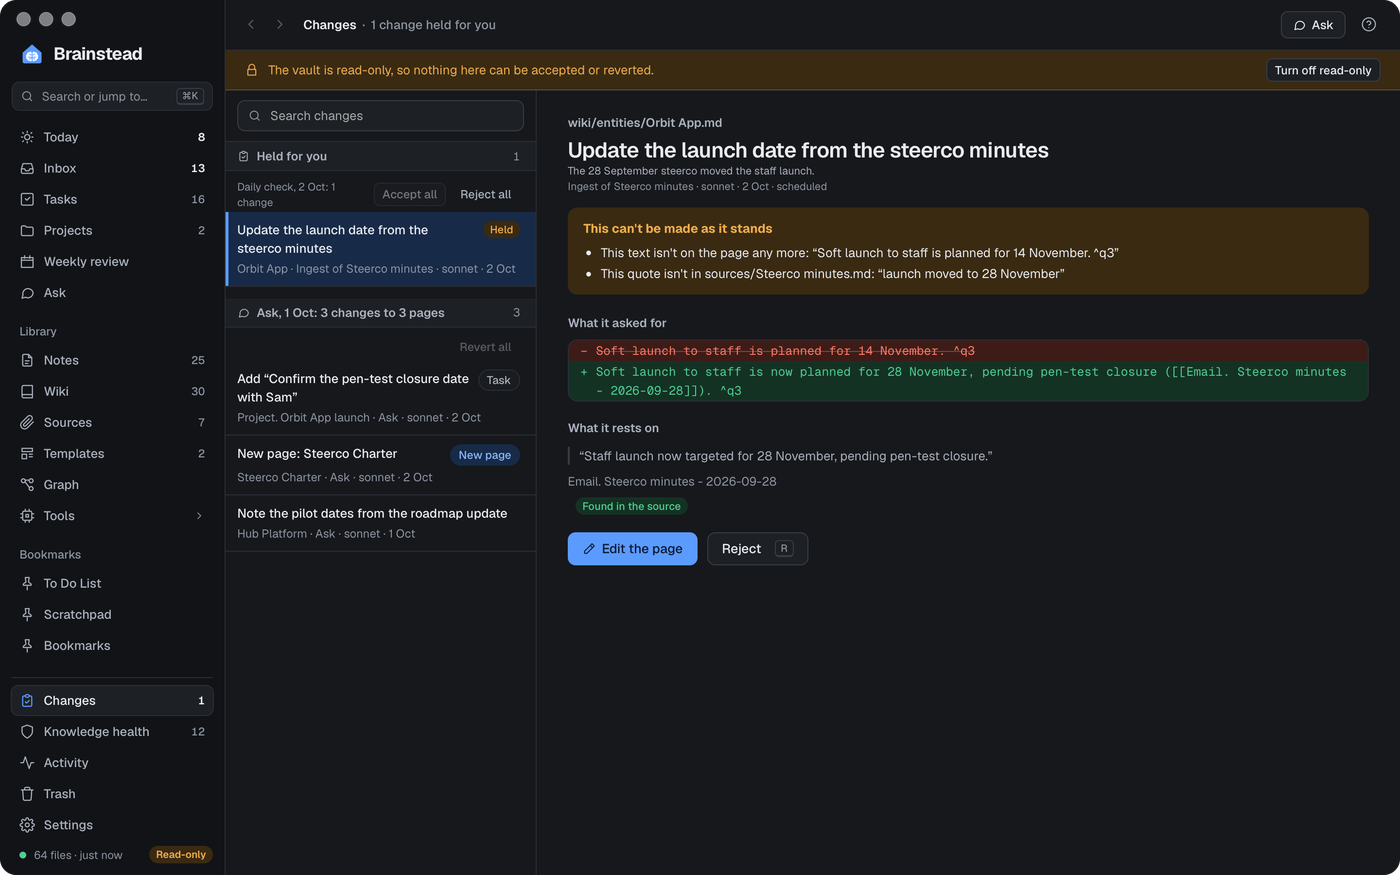
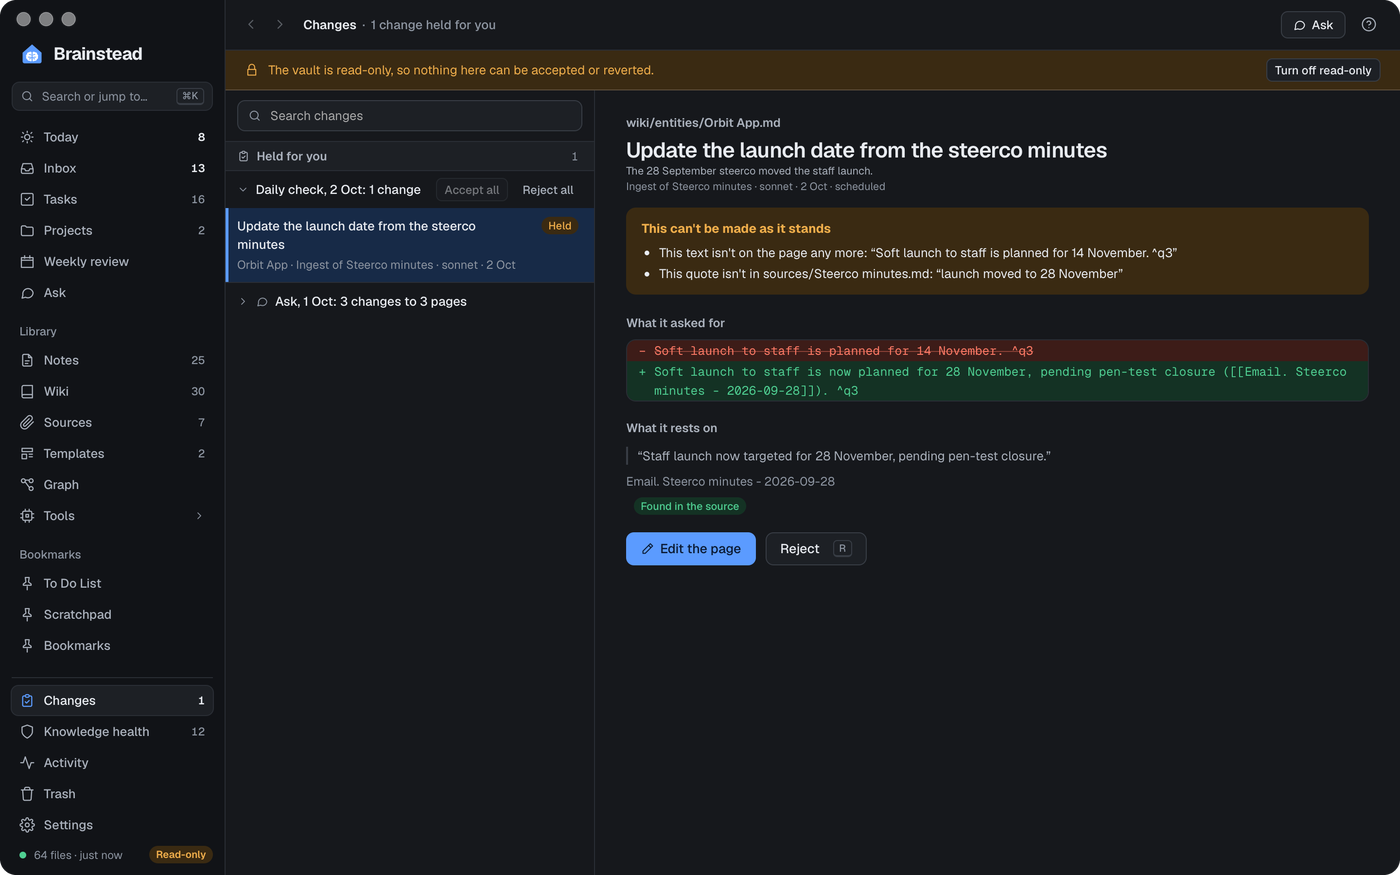
Changes, Activity and Settings in the new look. Changes: each run is folded to a heading with a chevron, one open at a time (moving to a change opens its run), in a wider list; the kind pills are plain, only Held is amber. Activity: the heat map, the log and the side lose their boxes, times are in t

diff --git a/src/Review.tsx b/src/Review.tsx
@@ -41,19 +41,20 @@ export function DiffText({ text }: { text: string }) {
   );
 }
 
+// What kind of change, as a plain pill: only Held (amber) asks for you.
 const kindChip = (c: ChangeRow) =>
   c.kind === "new" ? (
-    <span className="chip acc">New page</span>
+    <span className="chip">New page</span>
   ) : c.kind === "task" ? (
     <span className="chip">Task</span>
   ) : c.kind === "rename" ? (
     <span className="chip">Rename</span>
   ) : c.kind === "trash" ? (
-    <span className="chip amber">Moved to the Trash</span>
+    <span className="chip">Moved to the Trash</span>
   ) : c.kind === "restore" ? (
     <span className="chip">Restored from the Trash</span>
   ) : c.kind === "image" ? (
-    <span className="chip acc">Image added</span>
+    <span className="chip">Image added</span>
   ) : null;
 
 function when(iso: string): string {
@@ -194,6 +195,11 @@ export function ReviewScreen() {
   const order = useMemo(() => [...heldRuns, ...shownRuns].flatMap((g) => g.rows), [heldRuns, shownRuns]);
   const [sel, setSel] = useViewState<string | null>("review:sel", null);
   const cur = order.find((c) => c.id === sel) ?? waiting[0] ?? order[0] ?? null;
+  // One run open at a time, the current change's; opening another closes it, and moving to a
+  // change (J / K, ↑ ↓, a search) opens its run.
+  const [openRun, setOpenRun] = useState<string | null>(null);
+  useEffect(() => setOpenRun(cur?.group ?? null), [cur?.group]);
+  const toggle = (g: string) => setOpenRun((o) => (o === g ? null : g));
   const idx = cur ? order.indexOf(cur) : -1;
   const move = (d: number) => {
     const next = order[Math.min(order.length - 1, Math.max(0, idx + d))];
@@ -361,7 +367,7 @@ export function ReviewScreen() {
               {heldRuns.map((g) => (
                 <div key={g.group} className="qrun">
                   <div className="qrunhead">
-                    <span className="grow small">{runHeading(g.label, g.rows)}</span>
+                    <RunToggle open={openRun === g.group} onToggle={() => toggle(g.group)} label={runHeading(g.label, g.rows)} />
                     <span
                       title={
                         readOnly
@@ -394,23 +400,23 @@ export function ReviewScreen() {
                       Reject all
                     </button>
                   </div>
-                  {g.rows.map((c) => (
-                    <Row key={c.id} c={c} sel={cur?.id === c.id} onSel={() => setSel(c.id)} />
-                  ))}
+                  {openRun === g.group && g.rows.map((c) => <Row key={c.id} c={c} sel={cur?.id === c.id} onSel={() => setSel(c.id)} />)}
                 </div>
               ))}
             </div>
           )}
           {shownRuns.map((g) => (
-            <div key={g.group} className="tb-group" role="rowgroup">
-              <TableBand
-                icon={g.rows[0].origin.kind === "chat" ? "ask" : "wiki"}
-                label={runHeading(g.label, g.rows)}
-                n={g.rows.length}
-                tip={`${plural(g.rows.length, "change")} in this run`}
-              />
-              {g.rows.filter((c) => c.status === "applied").length > 1 && (
-                <div className="qrunhead">
+            <div key={g.group} className="qrun" role="rowgroup">
+              <div className="qrunhead">
+                <RunToggle
+                  open={openRun === g.group}
+                  onToggle={() => toggle(g.group)}
+                  icon={g.rows[0].origin.kind === "chat" ? "ask" : "wiki"}
+                  label={runHeading(g.label, g.rows)}
+                />
+              </div>
+              {openRun === g.group && g.rows.filter((c) => c.status === "applied").length > 1 && (
+                <div className="qrunhead qrunacts">
                   <span className="grow" />
                   <span
                     title={
@@ -434,9 +440,8 @@ export function ReviewScreen() {
                   </span>
                 </div>
               )}
-              {g.rows.map((c) => (
-                <Row key={c.id} c={c} sel={cur?.id === c.id} gone={gone(c.to ?? c.page)} onSel={() => setSel(c.id)} />
-              ))}
+              {openRun === g.group &&
+                g.rows.map((c) => <Row key={c.id} c={c} sel={cur?.id === c.id} gone={gone(c.to ?? c.page)} onSel={() => setSel(c.id)} />)}
             </div>
           ))}
           {feedRuns.length > shownRuns.length && (
@@ -467,6 +472,23 @@ export function ReviewScreen() {
         )}
       </div>
     </main>
+  );
+}
+
+/** A run's heading in the Changes list: a chevron and its name, opening or closing its changes. */
+function RunToggle({ open, onToggle, label, icon }: { open: boolean; onToggle: () => void; label: string; icon?: string }) {
+  return (
+    <button
+      type="button"
+      className={`qrunt grow ${open ? "open" : ""}`}
+      aria-expanded={open}
+      title={open ? "Hide this run's changes" : "Show this run's changes (and hide the others)"}
+      onClick={onToggle}
+    >
+      <Icon name="chevright" size={12} className="qchev" />
+      {icon && <Icon name={icon} size={13} />}
+      <span className="ell">{label}</span>
+    </button>
   );
 }
 

diff --git a/src/Activity.tsx b/src/Activity.tsx
@@ -17,19 +17,7 @@ import { useGlance, VaultGlance } from "./Glance";
 import { TopBar } from "./TopBar";
 import { fmtCount, SearchBox, Seg, TableBand, useDebounced } from "./ui";
 import { settings, useStore } from "./store";
-import {
-  actionLabel,
-  actionsIn,
-  actionTone,
-  buildGrid,
-  cellTip,
-  filterLog,
-  fmtDate,
-  iso,
-  linkTarget,
-  marks,
-  rankLog,
-} from "./activityModel";
+import { actionLabel, actionsIn, buildGrid, cellTip, filterLog, fmtDate, iso, linkTarget, marks, rankLog } from "./activityModel";
 
 const PAGE = 200;
 
@@ -241,7 +229,7 @@ export function ActivityScreen() {
 function Heatmap({ days, day, onDay }: { days: ActivityDay[]; day: string | null; onDay: (d: string) => void }) {
   const files = useMemo(() => days.reduce((n, d) => n + d.notes + d.wiki + d.sources, 0), [days]);
   return (
-    <div className="card actheat">
+    <div className="actheat">
       <div className="acthead">
         <span className="eyebrow">Files by the day they last changed</span>
         {/* Templates aren't counted, so this can be fewer than the sidebar's count of files. */}
@@ -361,7 +349,7 @@ function DayFiles({ day, onClear }: { day: string; onClear: () => void }) {
     };
   }, [day, version]);
   return (
-    <div className="card actday">
+    <div className="actday">
       <div className="acthead">
         <b>{fmtDate(day)}</b>
         <span className="faint">
@@ -379,7 +367,7 @@ function DayFiles({ day, onClear }: { day: string; onClear: () => void }) {
             <button key={f.path} type="button" className="actfile" onClick={() => openDoc(f.path)} title={f.path}>
               <span className={`lb ${f.layer}`}>{LAYER_LABEL[f.layer]}</span>
               <span className="t">{f.title}</span>
-              <span className="faint mono">{new Date(f.mtime).toLocaleTimeString("en-GB", { hour: "2-digit", minute: "2-digit" })}</span>
+              <span className="faint tnum">{new Date(f.mtime).toLocaleTimeString("en-GB", { hour: "2-digit", minute: "2-digit" })}</span>
             </button>
           ))}
         </div>
@@ -450,7 +438,7 @@ function LogTable({
       else days.push({ date: e.date, at: i, entries: [e] });
     });
   return (
-    <div className={`card actlog ${perDay ? "banded" : ""}`} role="table" aria-label="The vault's log">
+    <div className={`actlog ${perDay ? "banded" : ""}`} role="table" aria-label="The vault's log">
       <div className="ar tb-head" role="row">
         <span role="columnheader">{perDay ? "Time" : "When"}</span>
         <span role="columnheader">Action</span>
@@ -551,10 +539,10 @@ const LogRow = memo(function LogRow({
             {dayLabel(e.date)}
           </button>
         )}
-        {e.time && <span className="mono faint">{e.time}</span>}
+        {e.time && <span className="faint tnum">{e.time}</span>}
       </span>
       <span>
-        <span className={`chip ${actionTone(e.action)}`}>{actionLabel(e.action)}</span>
+        <span className="chip">{actionLabel(e.action)}</span>
       </span>
       <span className="item" title={e.description ? fieldsAsWords(e.description) : undefined}>
         {path ? (

diff --git a/src/styles.css b/src/styles.css
@@ -1099,11 +1099,8 @@ input {
 .srow .nowrap {
   white-space: nowrap;
 }
-.sysf {
-  padding: 14px 16px;
-  display: flex;
-  flex-direction: column;
-  gap: 10px;
+.sysf dt {
+  color: var(--ink2);
 }
 .sysf dl,
 .kv {
@@ -6044,17 +6041,20 @@ code.noscript {
 }
 
 /* Settings › Jobs & schedule (src/Jobs.tsx) */
+
+/* A note between a screen's settings: plain grey text, not a coloured box. */
 .jobnote {
   display: flex;
-  gap: 10px;
+  gap: 8px;
   align-items: flex-start;
-  padding: 12px 14px;
-  background: var(--accent-soft);
-  border-color: transparent;
-  color: var(--accent-ink);
+  font-size: 13px;
+  line-height: 1.5;
+  color: var(--ink2);
 }
 .jobnote svg {
+  flex: none;
   margin-top: 2px;
+  color: var(--ink3);
 }
 
 /* The switch last, on the right, as in every other settings row. */
@@ -6974,7 +6974,7 @@ select.sel {
 }
 .body.queue {
   display: grid;
-  grid-template-columns: 320px minmax(0, 1fr);
+  grid-template-columns: 380px minmax(0, 1fr);
   overflow: hidden;
 }
 
@@ -7112,8 +7112,43 @@ select.sel {
   display: flex;
   align-items: center;
   gap: 6px;
-  padding: 8px 16px 2px 12px;
+  min-height: 38px;
+  padding: 2px 12px 2px 6px;
   color: var(--ink3);
+}
+.qrunhead.qrunacts {
+  min-height: 0;
+  padding-top: 0;
+}
+
+/* A run's heading: a chevron that turns when its changes are shown. */
+.qrunt {
+  display: flex;
+  align-items: center;
+  gap: 7px;
+  min-width: 0;
+  height: 32px;
+  padding: 0 6px;
+  border: 0;
+  border-radius: 6px;
+  background: none;
+  color: var(--ink);
+  font: 500 13px var(--sans);
+  text-align: left;
+  cursor: pointer;
+}
+.qrunt:hover {
+  background: var(--hover);
+}
+.qrunt svg {
+  flex: none;
+  color: var(--ink3);
+}
+.qrunt .qchev {
+  transition: transform 0.15s;
+}
+.qrunt.open .qchev {
+  transform: rotate(90deg);
 }
 
 /* A change's one status: why it's held or flagged, and whether it can still be made. */
@@ -8204,7 +8239,7 @@ select.sel {
   flex: 1;
 }
 .actheat {
-  padding: 14px 18px;
+  padding: 0 0 6px;
   display: flex;
   flex-direction: column;
   gap: 10px;
@@ -8292,7 +8327,7 @@ button.hc {
   height: 11px;
 }
 .actday {
-  padding: 12px 18px;
+  padding: 0;
   display: flex;
   flex-direction: column;
   gap: 8px;
@@ -8346,8 +8381,20 @@ button.hc {
   flex-wrap: wrap;
   gap: 6px;
 }
+
+/* Activity's log, its heat map and side: no boxes, as the other screens (times in the text face). */
 .actlog {
   overflow: hidden;
+  border-top: 1px solid var(--line);
+}
+.actside .card {
+  padding: 0;
+  background: none;
+  border: 0;
+  border-radius: 0;
+}
+.tnum {
+  font-variant-numeric: tabular-nums;
 }
 .actlog .ar {
   display: grid;

diff --git a/src/Settings.tsx b/src/Settings.tsx
@@ -728,8 +728,8 @@ function Vault() {
         {err && <p className="err">{err}</p>}
       </section>
       <ExampleNotes />
-      <div className="card sysf">
-        <span className="eyebrow">System folders</span>
+      <section className="sgroup sysf">
+        <h2 className="h3">System folders</h2>
         <dl>
           <dt className="mono">sources/</dt>
           <dd className="muted">Imported files and captured emails and transcripts.</dd>
@@ -742,7 +742,7 @@ function Vault() {
           <dt className="mono">.trash/ and hidden folders</dt>
           <dd className="muted">Deleted items and other apps' settings. Not indexed.</dd>
         </dl>
-      </div>
+      </section>
     </>
   );
 }

diff --git a/src/activityModel.ts b/src/activityModel.ts
@@ -118,14 +118,6 @@ export function actionLabel(a: string): string {
   return ACTIONS[a] ?? (a.charAt(0).toUpperCase() + a.slice(1)).replace(/-/g, " ");
 }
 
-/** The chip's colour class for an action. */
-export function actionTone(a: string): string {
-  if (a === "ingest") return "green";
-  if (a === "review") return "amber";
-  if (a === "trash" || a === "delete") return "red";
-  return "";
-}
-
 /** Actions in the log, the most used first. */
 export function actionsIn(log: LogEntry[]): string[] {
   const n = new Map<string, number>();

diff --git a/src/Jobs.tsx b/src/Jobs.tsx
@@ -120,7 +120,7 @@ export function Jobs() {
         </div>
         <WeekPrep here={here} />
       </div>
-      <div className="card jobnote">
+      <div className="jobnote">
         <Icon name="info" size={16} />
         <span>
           Jobs run while Brainstead is running, even with its window closed; a run missed while it was closed or asleep catches up when it

diff --git a/src/help/review.md b/src/help/review.md
@@ -32,7 +32,7 @@ Assistants' task, Inbox and project edits are listed and held by the same rules;
 To have the summaries always held for you, turn on **Hold the summaries for me** in [Settings › Jobs & schedule](app:settings/jobs).
 
 ## Read the feed
-The feed groups changes by run, newest first: "Daily check, 5 Oct: 6 changes to 4 pages", an ingest, an Ask chat. Each row shows the title, page, source, model and age, with **Flagged**, **Reverted** or a kind such as **New page**. `J` and `K` move between changes.
+The feed groups changes by run, newest first: "Daily check, 5 Oct: 6 changes to 4 pages", an ingest, an Ask chat. Each run is folded to its heading: click its chevron to show its changes, which folds the one that was open. Moving to a change (`J` and `K`, or a search) opens its run. Each row shows the title, page, source, model and age, with **Flagged**, **Reverted** or a kind such as **New page**. `J` and `K` move between changes.
 
 **Search changes** above the list narrows held changes and the feed to those with every word you type in their title, page, source or model. The box shows which match you're on out of how many (`3/12`); `↓` and `↑` step through them, and `Esc` or ✕ clears it.
 
